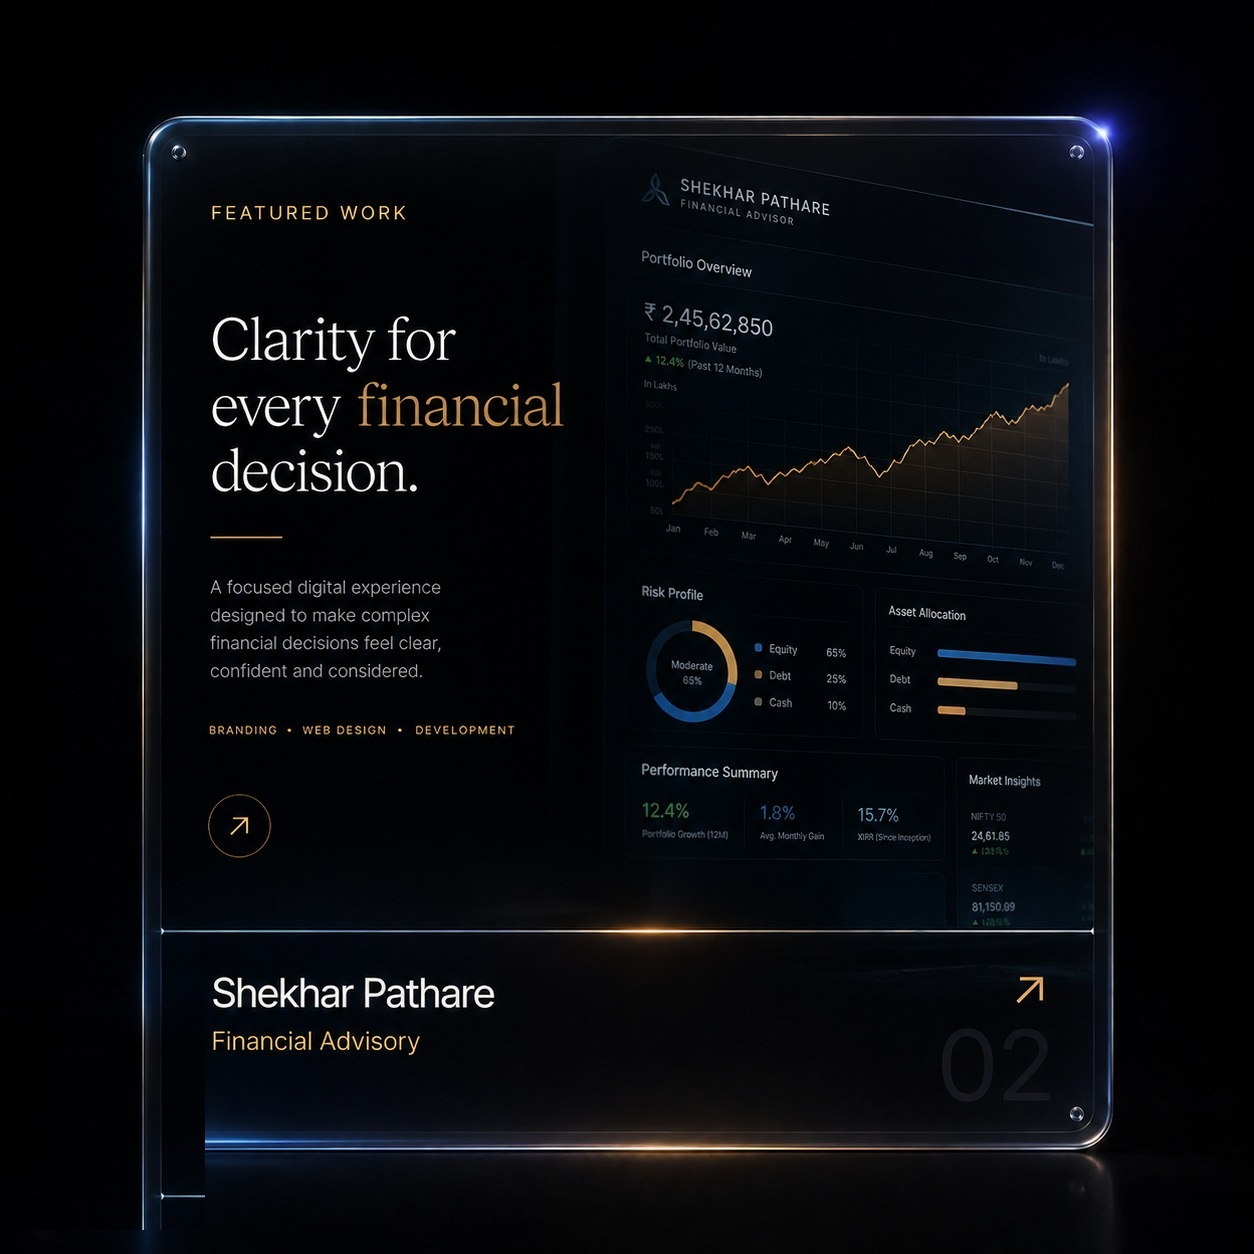
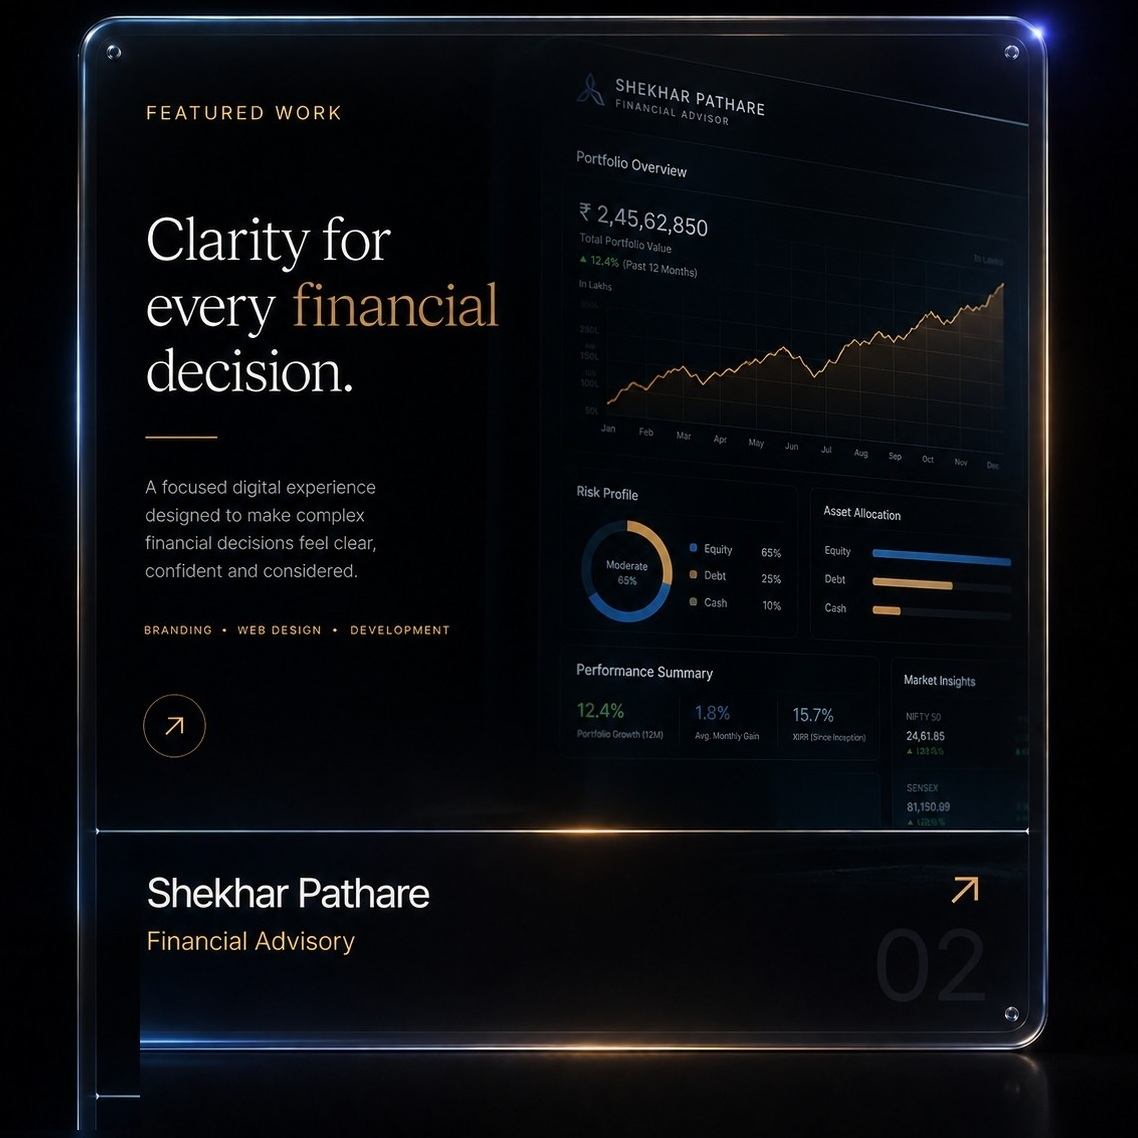
Crop featured thumbnails tight to the glass panel and drop the box-shadow rectangle

Changed region(s): [[0.0308, 0.0, 0.9534, 1.0], [0.4613, 0.7074, 0.5844, 0.7689]]

diff --git a/src/pages/Home.tsx b/src/pages/Home.tsx
@@ -247,7 +247,7 @@ export default function Home() {
                 <img
                   src={featuredThumbnails[p.slug]}
                   alt={`${p.name} — ${p.category}`}
-                  className="aspect-square w-full rounded-xl object-cover shadow-[0_35px_90px_-30px_rgba(0,0,0,0.8)] transition-transform duration-500 ease-[var(--ease-lux)] group-hover:-translate-y-2 group-hover:scale-[1.02]"
+                  className="aspect-square w-full rounded-xl object-cover transition-transform duration-500 ease-[var(--ease-lux)] group-hover:-translate-y-2 group-hover:scale-[1.02]"
                 />
               </Link>
             </Reveal>
